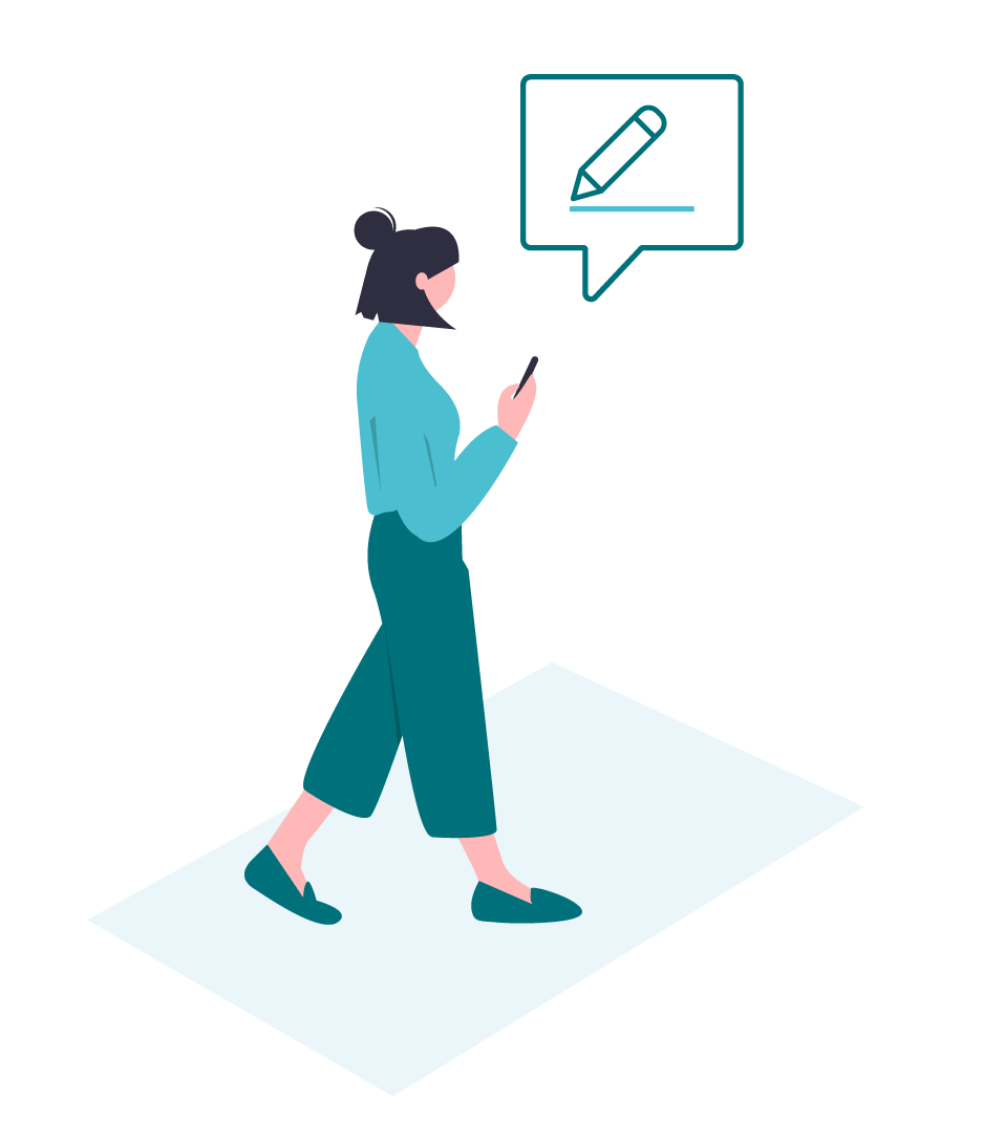
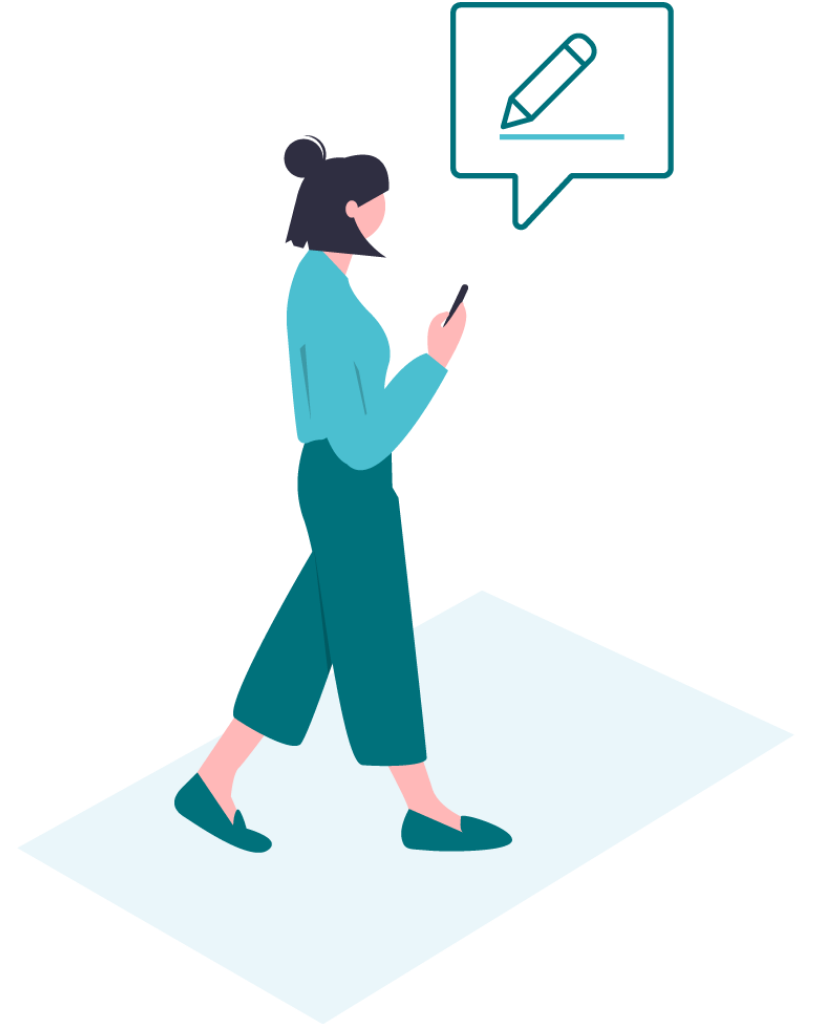
form pages mobile fixes

Changed region(s): [[0.215, 0.125, 0.645, 0.8438], [0.5221, 0.0, 0.8292, 0.2812], [0.3686, 0.6875, 0.3993, 0.7188]]

diff --git a/app/components/contactus/contactus.template.html b/app/components/contactus/contactus.template.html
@@ -1,78 +1,78 @@
-        <div ng-include='"app/templates/header.html"' class="other-menu"></div>
-        
-        <section>
-            <div class="container py-md-5 py-4">
-                <div class="row no-gutters py-md-5">
-                    <div class="col-md-6 col-12">
-                        <div class="my-5 mr-5 pr-5 text-left">
-                            <p class="h2">Contact Us</p>
-                            <img class="my-5 pr-5 w-75" src="images/contact/Diagrams_contact-us.png" />
-                        </div>
-                    </div>
-                    <div class="col-md-6 col-12">
-                        <div class="my-5 mr-5 pr-5 text-left">
-                            <form name="userForm" novalidate ng-submit="insertData(userForm.$valid)">
-                                <label class="text-danger ng-hide" ng-show="errorMessage">{{errorMessage}}</label>
-                                <label class="text-success ng-hide" ng-show="successInsert">{{successInsert}}</label>
-                                 <div ng-hide="successInsert != null">
-                                     <div class="cf-field-div">
-                                         <label for="username" >Name</label>
-                                         <input type="text" name="userName" ng-model="insert.user_name" class="form-control" ng-class="{
-                                     'has-error': userForm.userName.$invalid && userForm.$submitted && userForm.userName.$pristine }"
-                                                required>
-                                         <!--<span class="text-danger" ng-show="errorUsername">{{errorUsername}}</span>-->
-                                         <span class="valid-text ng-hide" ng-show="userForm.userName.$dirty && userForm.userName.$invalid">
-                                         <span ng-show="userForm.userName.$error.required">Name is required.</span>
-                                     </span>
-                                     </div>
-                                     <div class="cf-field-div">
-                                         <label for="companyName">Company name</label>
-                                         <input type="text" name="companyName" ng-model="insert.company_name" class="form-control"
-                                                ng-class="{'has-error' : userForm.companyName.$invalid && userForm.$submitted &&
-                                     userForm.companyName.$pristine }" required>
-                                         <!--<span class="text-danger" ng-show="errorCompanyname">{{errorCompanyname}}</span>-->
-                                         <span class="valid-text ng-hide" ng-show="userForm.companyName.$dirty && userForm.companyName.$invalid">
-                                         <span ng-show="userForm.companyName.$error.required">Company name is required.</span>
-                                     </span>
-                                     </div>
-                                     <div class="cf-field-div">
-                                         <label for="email">Email</label>
-                                         <input type="email" name="email" ng-model="insert.email" class="form-control" ng-class="{
-                                     'has-error' : userForm.email.$invalid && userForm.$submitted && userForm.email.$pristine }" required>
-                                         <!--<span class="text-danger" ng-show="errorEmail">{{errorEmail}}</span>-->
-                                         <span class="valid-text ng-hide" ng-show="userForm.email.$dirty && userForm.email.$invalid">
-                                         <span ng-show="userForm.email.$error.required">Email is required.</span>
-                                         <span ng-show="userForm.email.$error.email">Invalid email address.</span>
-                                     </span>
-                                     </div>
-                                     <div class="cf-field-div">
-                                         <label for="phone">Phone</label>
-                                         <input type="text" name="phone" ng-model="insert.phone" class="form-control" ng-class="{
-                                     'has-error' : userForm.phone.$invalid && userForm.$submitted && userForm.phone.$pristine }" required>
-                                         <!--<span class="text-danger" ng-show="errorPhone">{{errorPhone}}</span>-->
-                                         <span class="valid-text ng-hide" ng-show="userForm.phone.$dirty && userForm.phone.$invalid">
-                                         <span ng-show="userForm.phone.$error.required">Phone is required.</span>
-                                         <span ng-show="userForm.phone.$error.number">Valid phone number is required.</span>
-                                             <!--<span ng-show="userForm.phone.$error.minlength">Phone no not less that 10 char.</span>
-                                             <span ng-show="userForm.phone.$error.maxlength">Phone no not more than 10 char.</span>-->
-                                     </span>
-                                     </div>
-                                     <div class="cf-field-div">
-                                         <label for="message">Message</label>
-                                         <textarea name="message" ng-model="insert.message" class="form-control form-control-textarea"
-                                                   cols="30" rows="4" ng-class="{
-                                     'has-error' : userForm.message.$invalid && userForm.$submitted && userForm.message.$pristine }"
-                                                   required></textarea>
-                                         <!--<span class="text-danger" ng-show="errorMessageF">{{errorMessageF}}</span>-->
-                                         <span class="valid-text ng-hide" ng-show="userForm.message.$dirty && userForm.message.$invalid">
-                                         <span ng-show="userForm.message.$error.required">Message is required.</span>
-                                     </span>
-                                     </div>
-                                     <input type="submit" name="insert" class="button-style btn btn-primary my-5 cf-field-div" value="Send">
-                                 </div>
-                             </form> 
-                        </div>
-                    </div>
+<div ng-include='"app/templates/header.html"' class="other-menu"></div>
+
+<section class="form_page">
+    <div class="container py-md-5 py-4">
+        <div class="row no-gutters py-md-5">
+            <div class="col-md-6 col-12 mt-5">
+                <div class="ml-lg-0 ml-4 mr-lg-0 mr-4 mt-5 mt-lg-0">
+                    <p class="h2 mb-4">Contact Us</p>
+                    <img class="my-4" src="images/contact/Diagrams_contact-us.png" />
                 </div>
             </div>
-        </section> 
+            <div class="col-md-6 col-12">
+                <div class="my-md-5 mr-md-5 ml-lg-0 ml-4 mr-lg-0 mr-3">
+                    <form name="userForm" novalidate ng-submit="insertData(userForm.$valid)">
+                        <label class="text-danger ng-hide" ng-show="errorMessage">{{errorMessage}}</label>
+                        <label class="text-success ng-hide" ng-show="successInsert">{{successInsert}}</label>
+                            <div ng-hide="successInsert != null">
+                                <div class="cf-field-div">
+                                    <label for="username" >Name</label>
+                                    <input type="text" name="userName" ng-model="insert.user_name" class="form-control" ng-class="{
+                                'has-error': userForm.userName.$invalid && userForm.$submitted && userForm.userName.$pristine }"
+                                        required>
+                                    <!--<span class="text-danger" ng-show="errorUsername">{{errorUsername}}</span>-->
+                                    <span class="valid-text ng-hide" ng-show="userForm.userName.$dirty && userForm.userName.$invalid">
+                                    <span ng-show="userForm.userName.$error.required">Name is required.</span>
+                                </span>
+                                </div>
+                                <div class="cf-field-div">
+                                    <label for="companyName">Company name</label>
+                                    <input type="text" name="companyName" ng-model="insert.company_name" class="form-control"
+                                        ng-class="{'has-error' : userForm.companyName.$invalid && userForm.$submitted &&
+                                userForm.companyName.$pristine }" required>
+                                    <!--<span class="text-danger" ng-show="errorCompanyname">{{errorCompanyname}}</span>-->
+                                    <span class="valid-text ng-hide" ng-show="userForm.companyName.$dirty && userForm.companyName.$invalid">
+                                    <span ng-show="userForm.companyName.$error.required">Company name is required.</span>
+                                </span>
+                                </div>
+                                <div class="cf-field-div">
+                                    <label for="email">Email</label>
+                                    <input type="email" name="email" ng-model="insert.email" class="form-control" ng-class="{
+                                'has-error' : userForm.email.$invalid && userForm.$submitted && userForm.email.$pristine }" required>
+                                    <!--<span class="text-danger" ng-show="errorEmail">{{errorEmail}}</span>-->
+                                    <span class="valid-text ng-hide" ng-show="userForm.email.$dirty && userForm.email.$invalid">
+                                    <span ng-show="userForm.email.$error.required">Email is required.</span>
+                                    <span ng-show="userForm.email.$error.email">Invalid email address.</span>
+                                </span>
+                                </div>
+                                <div class="cf-field-div">
+                                    <label for="phone">Phone</label>
+                                    <input type="text" name="phone" ng-model="insert.phone" class="form-control" ng-class="{
+                                'has-error' : userForm.phone.$invalid && userForm.$submitted && userForm.phone.$pristine }" required>
+                                    <!--<span class="text-danger" ng-show="errorPhone">{{errorPhone}}</span>-->
+                                    <span class="valid-text ng-hide" ng-show="userForm.phone.$dirty && userForm.phone.$invalid">
+                                    <span ng-show="userForm.phone.$error.required">Phone is required.</span>
+                                    <span ng-show="userForm.phone.$error.number">Valid phone number is required.</span>
+                                        <!--<span ng-show="userForm.phone.$error.minlength">Phone no not less that 10 char.</span>
+                                        <span ng-show="userForm.phone.$error.maxlength">Phone no not more than 10 char.</span>-->
+                                </span>
+                                </div>
+                                <div class="cf-field-div">
+                                    <label for="message">Message</label>
+                                    <textarea name="message" ng-model="insert.message" class="form-control form-control-textarea"
+                                            cols="30" rows="4" ng-class="{
+                                'has-error' : userForm.message.$invalid && userForm.$submitted && userForm.message.$pristine }"
+                                            required></textarea>
+                                    <!--<span class="text-danger" ng-show="errorMessageF">{{errorMessageF}}</span>-->
+                                    <span class="valid-text ng-hide" ng-show="userForm.message.$dirty && userForm.message.$invalid">
+                                    <span ng-show="userForm.message.$error.required">Message is required.</span>
+                                </span>
+                                </div>
+                                <input type="submit" name="insert" class="button-style btn btn-primary my-5 cf-field-div" value="Send">
+                            </div>
+                        </form> 
+                </div>
+            </div>
+        </div>
+    </div>
+</section> 

diff --git a/app/components/retailebook/retailebook.template.html b/app/components/retailebook/retailebook.template.html
@@ -1,19 +1,20 @@
-        <div ng-include='"app/templates/header.html"' class="other-menu"></div>
-        <section>
-            <div class="container py-md-5 py-4">
-                <div class="row no-gutters py-md-5">
-                    <div class="col-md-6 col-12">
-                        <div class="my-5 mr-5 pr-5 text-left">
-                            <p class="h2 w-75">4 Ways ARCan Change Brick and Mortar Retail</p>
-                            <p class="my-5 w-75">Increase engagement with unique AR experiences & see real ROI</p>
-                            <img class="pr-5 w-100" src="images/retail_ebook.png" />
-                        </div>
-                    </div>
-                    <div class="col-md-6 col-12">
-                        <div class="my-5 mr-5 pr-5 text-left">
-                            <iframe src="https://docs.google.com/forms/d/e/1FAIpQLSev7GnfyZsu7SifIdDoSia8fJIiyfZWRbV5U2EPk4xbrJsAVA/viewform?embedded=true" width="100%" height="1200" frameborder="0" marginheight="0" marginwidth="0">Loading…</iframe>
-                        </div>
-                    </div>
+<div ng-include='"app/templates/header.html"' class="other-menu"></div>
+<section class="form_page">
+    <div class="container py-md-5 py-4">
+        <div class="row no-gutters py-md-5">
+            <div class="col-md-6 col-12 mt-5">
+                <div class="ml-lg-0 ml-4 mr-lg-0 mr-4 mt-5 mt-lg-0">
+                    <p class="h2 w-75">4 Ways ARCan Change Brick and Mortar Retail</p>
+                    <p class="mt-4 w-75">Increase engagement with unique AR experiences & see real ROI</p>
+                    <img class="my-4" src="images/retail_ebook.png" />
                 </div>
             </div>
-        </section>
+            <div class="col-md-6 col-12">
+                <div class="my-md-5 mr-md-5 ml-lg-0 ml-3 mr-lg-0 mr-3">
+                    <iframe src="https://docs.google.com/forms/d/e/1FAIpQLSev7GnfyZsu7SifIdDoSia8fJIiyfZWRbV5U2EPk4xbrJsAVA/viewform?embedded=true" 
+                    width="100%" height="1200" frameborder="0" marginheight="0" marginwidth="0">Loading…</iframe>
+                </div>
+            </div>
+        </div>
+    </div>
+</section>

diff --git a/app/components/whitepaper/whitepaper.template.html b/app/components/whitepaper/whitepaper.template.html
@@ -1,18 +1,19 @@
-        <div ng-include='"app/templates/header.html"' class="other-menu"></div>
-        <section>
-            <div class="container py-md-5 py-4">
-                <div class="row no-gutters py-md-5">
-                    <div class="col-md-6 col-12">
-                        <div class="my-5 mr-5 pr-5 text-left">
-                            <p class="h2">Vera White Paper</p>
-                            <img class="my-5 pr-5 w-100" src="images/whitepaper.png" />
-                        </div>
-                    </div>
-                    <div class="col-md-6 col-12">
-                        <div class="my-5 mr-5 pr-5 text-left">
-                            <iframe src="https://docs.google.com/forms/d/e/1FAIpQLSccR9MSYKzjoq_mmYFlPCy_13Ix77zngQnVQkhFdvbM28aCUA/viewform?embedded=true" width="100%" height="750" frameborder="0" marginheight="0" marginwidth="0">Loading...</iframe>
-                        </div>
-                    </div>
+<div ng-include='"app/templates/header.html"' class="other-menu"></div>
+<section class="form_page">
+    <div class="container py-md-5 py-4">
+        <div class="row no-gutters py-md-5">
+            <div class="col-md-6 col-12 mt-5">
+                <div class="ml-lg-0 ml-4 mr-lg-0 mr-4 mt-5 mt-lg-0">
+                    <p class="h2">Vera White Paper</p>
+                    <img class="my-4" src="images/whitepaper.png" />
                 </div>
             </div>
-        </section>
+            <div class="col-md-6 col-12">
+                <div class="my-md-5 mr-md-5 ml-lg-0 ml-3 mr-lg-0 mr-3">
+                    <iframe src="https://docs.google.com/forms/d/e/1FAIpQLSccR9MSYKzjoq_mmYFlPCy_13Ix77zngQnVQkhFdvbM28aCUA/viewform?embedded=true" 
+                    width="100%" height="750" frameborder="0" marginheight="0" marginwidth="0">Loading...</iframe>
+                </div>
+            </div>
+        </div>
+    </div>
+</section>

diff --git a/app/templates/footer.html b/app/templates/footer.html
@@ -6,7 +6,7 @@
                     <div class="col-10">
                         <div class="p-4 px-md-0">
                             <p class="h3 mb-3">Do big things. Join Resonai.</p>
-                            <p>We’re working on some really cool stuff. If you want in, we want to hear from you.</p>
+                            <p>We’re working on some really cool stuff. If you are interested in working with us, we would love to hear from you.</p>
                             <a class="btn btn-secondary mt-4" href="index.php#!/jobs">Open positions</a>
                         </div>
                     </div>

diff --git a/css/index.scss b/css/index.scss
@@ -167,10 +167,6 @@ a:not([href]):not([tabindex]):hover {
   transform: scale(0.9);
 }
 
-.img-wrapper {
-  //height: 90px;
-}
-
 .trade {
   font-size: 0.5em;
   top: -1rem;
@@ -586,6 +582,18 @@ footer {
     filter: brightness(5);
     img {
       filter: contrast(0);
+    }
+  }
+}
+
+.form_page {
+  img {
+    max-height: 60vh;
+    max-width: 70%;
+  } 
+  @media screen and (max-width: rem(991)) {
+    img {
+      max-height: 40vh;
     }
   }
 }

diff --git a/css/index.css b/css/index.css
@@ -533,6 +533,14 @@ footer .social {
 footer .social img {
   filter: contrast(0); }
 
+.form_page img {
+  max-height: 60vh;
+  max-width: 70%; }
+
+@media screen and (max-width: 61.9375rem) {
+  .form_page img {
+    max-height: 40vh; } }
+
 /* ---- Bootstrap Override CSS ---- */
 /* ---- NavBar ---- */
 homepage .navbar:not(.scrolled) .navbar-toggler-icon {

diff --git a/app/components/homepage/homepage.template.html b/app/components/homepage/homepage.template.html
@@ -22,7 +22,6 @@
     </div>
 </section>
 
-
 <section id="vera-business">
     <div class="container py-md-5 py-4">
         <div class="row no-gutters py-md-5 justify-content-center align-items-center">
